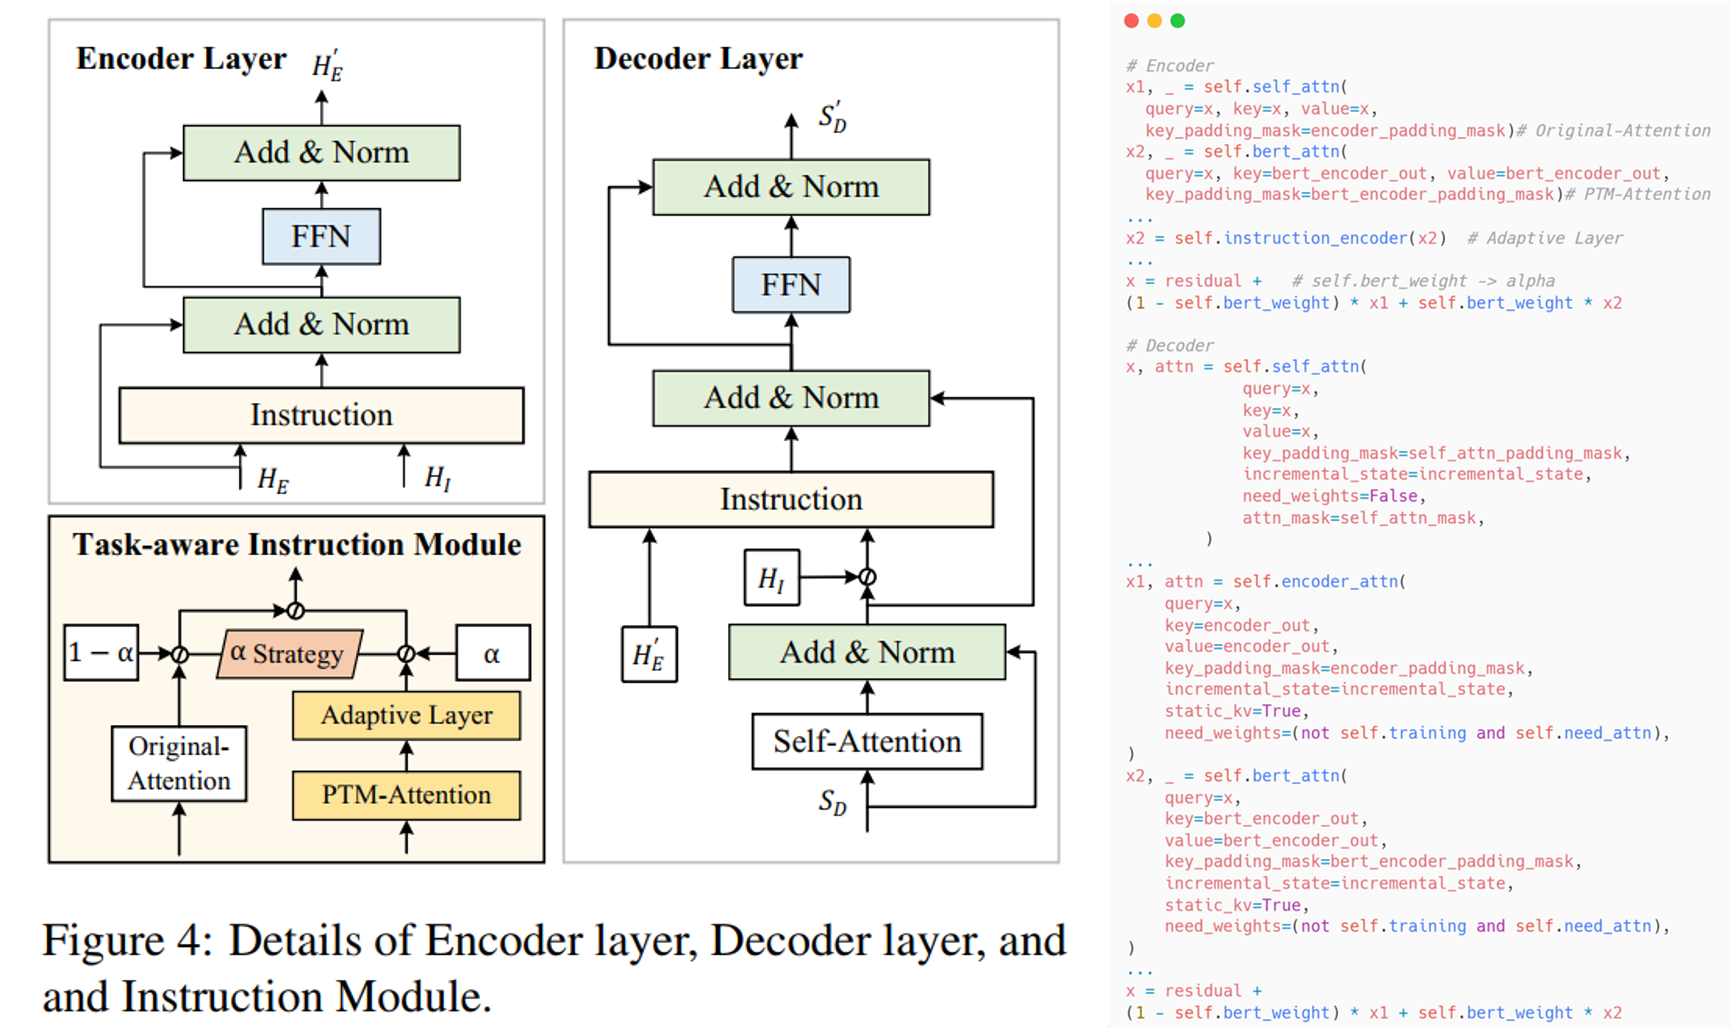
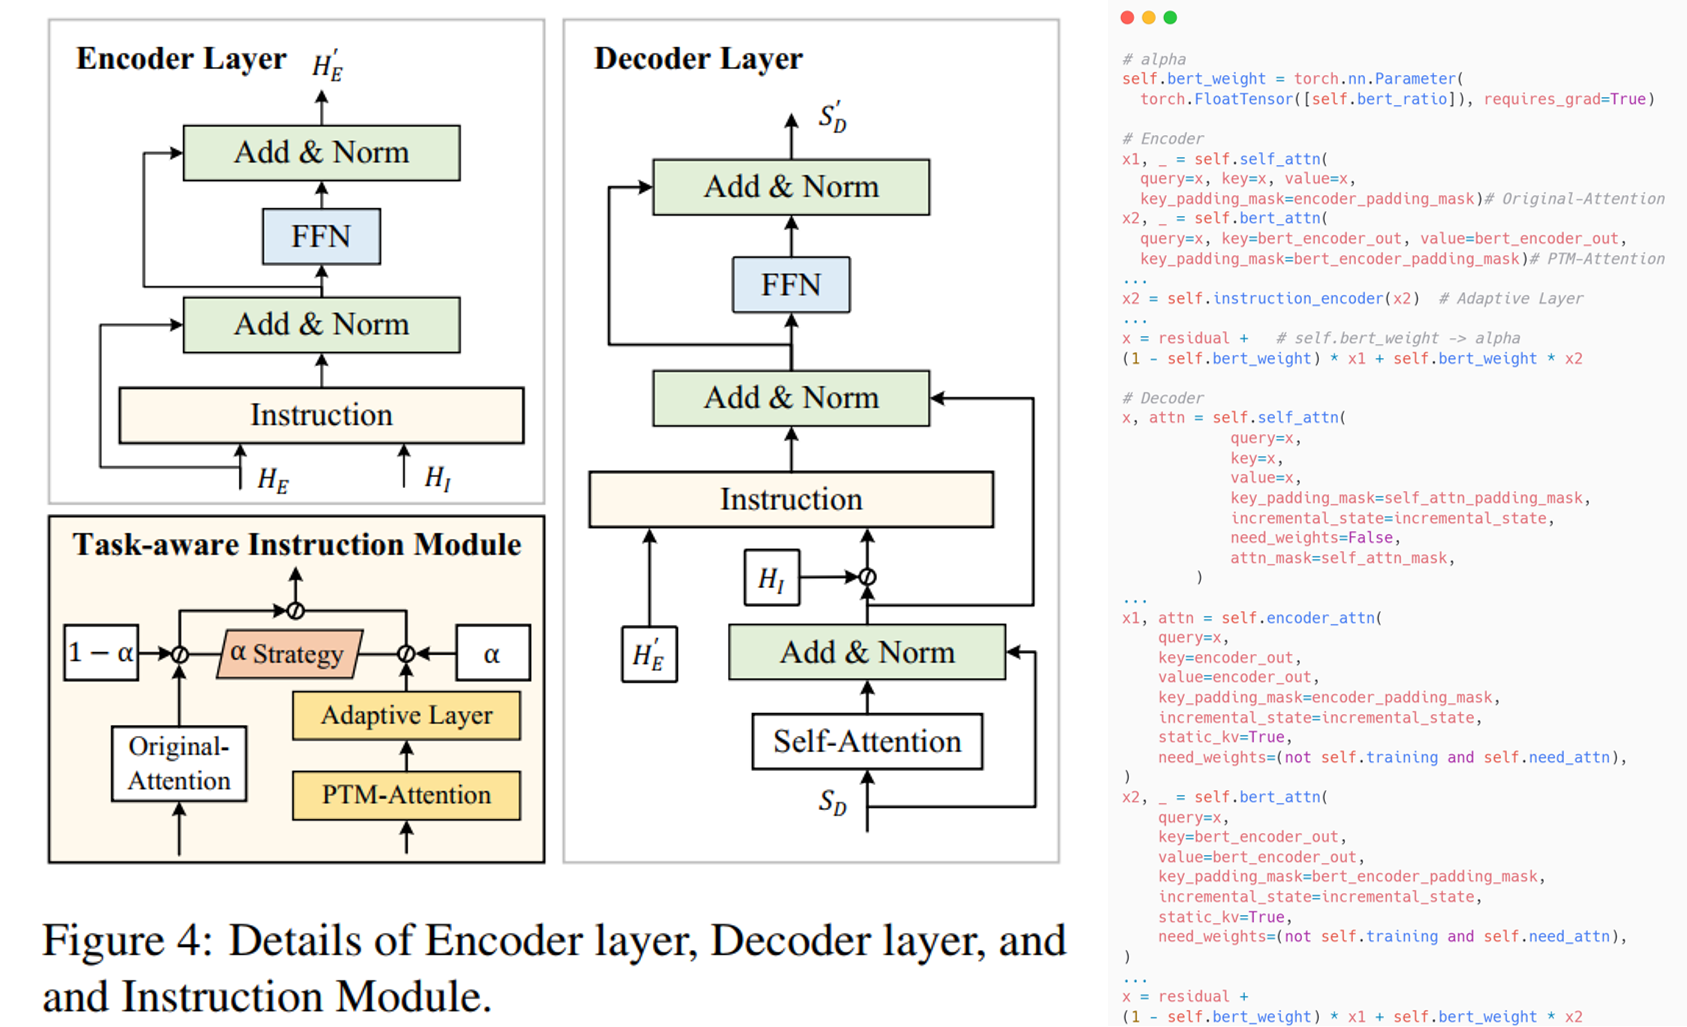
update paper TIN-SLT

diff --git a/_posts/2023-11-09-blog-paper-TIN-SLT.md b/_posts/2023-11-09-blog-paper-TIN-SLT.md
@@ -30,7 +30,7 @@ Method
 ![TIN-SLT encoder and decoder](/images/paper_TIN-SLT-encoder-decoder.png)
 
 <p style="text-align:justify; text-justify:inter-ideograph;">具体而言，如上图，本文使用的整体框架是 Transformer 的 Encoder-Decoder 框架。
-假设输入为 $\mathcal{G} = \{g_1,...,g_L\}$，输出为 $\mathcal{S} = \{\mathcal{w}_1,...,\mathcal{w}_M\}$。
+假设数据集为 $D_o$，其中输入为 $\mathcal{G} = \{g_1,...,g_L\}$，输出为 $\mathcal{S} = \{\mathcal{w}_1,...,\mathcal{w}_M\}$。
 为了将大模型的编码性能迁移到自身模型，本文提出了一个 <b>Target-aware Instruction (TIM)</b>模块嵌入 Encoder 和 Decoder 来帮助模型更好地学习。
 TIM 的整体框架如图，包括一个 Original-Attention，一个 PTM-Attention，一个 Adaptive Layer 和一个 $\alpha$ 融合策略。
 它包括 $3$ 个输入 $H_1$，$H_2$ 和 $H_3$，其中，$H_1$ 和 $H_2$ 是模型内部学习到的特征，经过 Original-Attention，
@@ -54,4 +54,23 @@ TIM 的整体框架如图，包括一个 Original-Attention，一个 PTM-Attenti
 <p style="text-align:justify; text-justify:inter-ideograph;">然后经过 TIM，TIM 中的 $H_1 = \tilde{S}_D, H_2 = H_E', H_3 = H_I$。
 接着 TIM 输出得到的 $\bar{H}_1$ 再经过一个 FFN 和 两次 Add & Norm 生成输出 $S_D'$：$S_D' = LayerNorm(FFN(LayerNorm(\bar{H}_1 + \tilde{S}_D)) + LayerNorm(\bar{H}_1 + \tilde{S}_D))$。</p>
 
-<p style="text-align:justify; text-justify:inter-ideograph;">对于融合系数 $\alpha$</p>
+<p style="text-align:justify; text-justify:inter-ideograph;">如上图右边代码，对于融合系数 $\alpha$，本文采用模型自我学习的方式，即将 $\alpha$ 设置为<b>可学习的</b>参数，随着模型的训练逐步更新。</p>
+
+<p style="text-align:justify; text-justify:inter-ideograph;">为了解决表征空间差异问题，本文使用上采样进行数据增强，并实现将 gloss 对齐到 sentence 空间。
+即设置一个阈值 $\Phi_{upsamp}$，使用概率选择生成一个新数据集 $D_n$：</p>
+
+$$D_n^i = \begin{cases}\{\mathcal{S}^i, \mathcal{S}^i\}, & p < \Phi_{upsamp} \\ \{\}, & p > \Phi_{upsamp} \end{cases}, p \in [0, 1]$$
+
+<p style="text-align:justify; text-justify:inter-ideograph;">同时综合考虑数据集 $D_o$、数据 $\mathcal{G}^i/\mathcal{S}^i$ 和数据元素 $g_i/\mathcal{w}_i$ 的差异来选择合适的阈值 $\Phi_{upsamp}$。
+具体而言，本文考虑了四方面的因素：</p>
+
+<ul>
+<li><p style="text-align:justify; text-justify:inter-ideograph;">Token Level 1：Vocabulary Difference Ratio (VDR, $\phi_v$)，用来测量 gloss 和 sentence 的字典空间的差异性：</p>
+
+<center>$\phi_v = 1 - \dfrac{|W_\mathcal{G}|}{|W_\mathcal{G} \bigcup W_\mathcal{S}|}$</center>
+
+<p style="text-align:justify; text-justify:inter-ideograph;"></p>
+
+<p style="text-align:justify; text-justify:inter-ideograph;">其中，$W_\mathcal{G}$ 和 $W_\mathcal{S}$ 分别表示 gloss 和 sentence 的字典集。$|·|$ 表示大小。</p></li>
+
+</ul>
